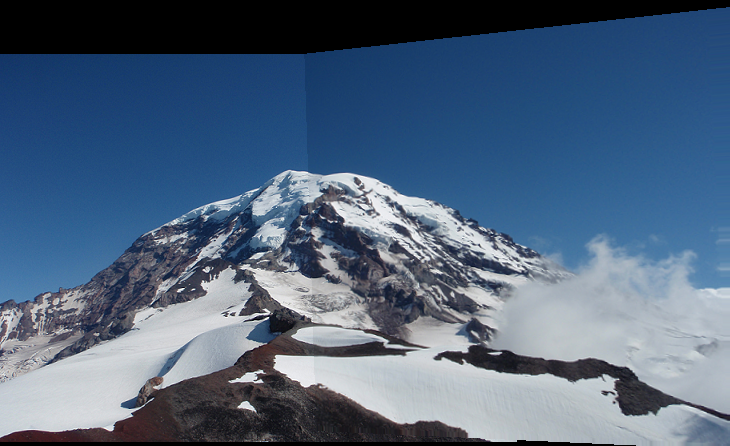
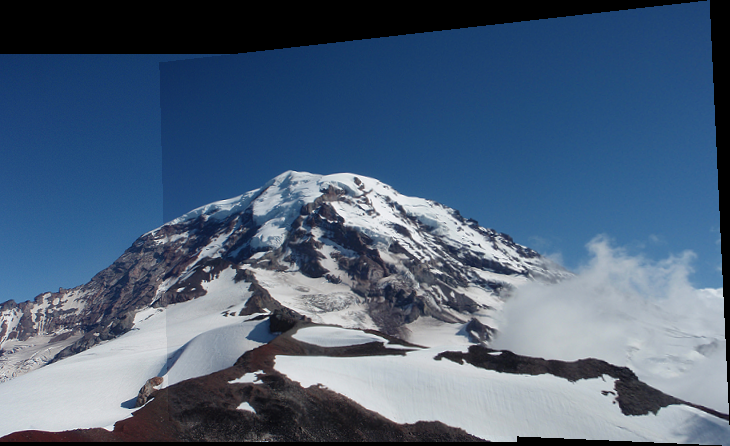
Stitching corrections completed.

diff --git a/rainier_stitch.py b/rainier_stitch.py
@@ -1,0 +1,48 @@
+import cv2
+import numpy as np
+import utility as utl
+import ransac
+from image import Image
+from stitch import stitch
+
+if __name__ == '__main__':
+    ransac_match_images = ['project_images/Rainier1.png', 'project_images/Rainier2.png', 'project_images/Rainier3.png',
+                           'project_images/Rainier4.png', 'project_images/Rainier5.png', 'project_images/Rainier6.png']
+    images = []
+    print("Detecting SIFT keypoints and corresponding descriptors in the images.")
+    for argumentImage in ransac_match_images:
+        image = Image(argumentImage)
+        image.detect_sift_corners()
+        # image.detect_harris_corners()
+        images.append(image)
+
+    final_image = images[0]
+    images = images[1:]
+    index = 1
+    while True:
+        print("Adding image ", index)
+        index += 1
+        max_inliers = 0
+        max_inliers_index = 0
+        max_inliers_homography = None
+        max_inliers_inverse_homography = None
+        for i in range(len(images)):
+            matches, matching_image = utl.get_matches(final_image, images[i])
+            homography, inverse_homography, match_image, number_of_inliers = ransac.RANSAC(matches=matches, numMatches=4, numIterations=150, inlierThreshold=50, hom=None, homInv=None, image1Display=final_image, image2Display=images[i])
+            if number_of_inliers > max_inliers:
+                max_inliers = number_of_inliers
+                max_inliers_index = i
+                max_inliers_homography = homography
+                max_inliers_inverse_homography = inverse_homography
+        print("Best current match: ", images[max_inliers_index].image_name)
+        print("Stitching")
+        final_image = stitch(final_image, images[max_inliers_index], max_inliers_homography, max_inliers_inverse_homography)
+        images = images[:max_inliers_index] + images[max_inliers_index + 1:]
+        if len(images) == 0:
+            break
+        print("Finding keypoints in the stitched image")
+        cv2.imwrite("image_sets/misc/mid.png", final_image)
+        final_image = Image("misc/mid.png")
+        final_image.detect_sift_corners()
+
+    cv2.imwrite('Results/project_images/All_Rainier_stitched.png', final_image)

diff --git a/utility.py b/utility.py
@@ -1,6 +1,8 @@
 import cv2
 import math
 import numpy as np
+from shapely.geometry import Point, Polygon
+
 
 
 # show/save image helper functions
@@ -69,7 +71,7 @@ def result_image_name(image_name):
     return "Results/" + image_name
 
 
-# helper functions to get matches between images based on detected keypoints
+# helper functions to get matches between images based on detected key points
 def get_matches(image_1, image_2):
     image_1_keypoints = [corner.keypoint for corner in image_1.corners]
     image_1_descriptors = [corner.descriptor for corner in image_1.corners]
@@ -138,18 +140,10 @@ def get_empty_stitched_image(image_1, image_2_tl, image_2_tr, image_2_bl, image_
         stitched_image_width = max_y
     # stitched_image = np.zeros((math.ceil(stitched_image_height), math.ceil(stitched_image_width), 3))
     stitched_image = np.zeros((math.ceil(stitched_image_height), math.ceil(stitched_image_width), 3))
-    # print("Shape of stitched image should look something like: ",
-    #       stitched_image.shape)
     return stitched_image
 
-
-def within_boundary_check(projected_point, image_2_tl, image_2_tr, image_2_bl, image_2_br):
-    if (projected_point[0] < image_2_tl[0] or projected_point[1] < image_2_tl[1]) and image_2_tl < image_2_bl:
-        return False
-    elif (projected_point[0] < image_2_bl[0] or projected_point[1] < image_2_bl[1]) and image_2_bl <= image_2_tl:
-        return False
-    elif (projected_point[0] > image_2_tr[0] or projected_point[1] > image_2_tr[1]) and image_2_tr > image_2_br:
-        return False
-    elif (projected_point[0] > image_2_br[0] or projected_point[1] > image_2_br[1]) and image_2_br >= image_2_tr:
-        return False
-    return True
+def within_boundary_check(projected_point, image_2):
+    image_2_boundary = np.array([[0, 0], [len(image_2.image[0]), 0], [len(image_2.image[0]), len(image_2.image)], [0, len(image_2.image)]])
+    if cv2.pointPolygonTest(image_2_boundary, projected_point, False) == 1.0:
+        return True
+    return False

diff --git a/ransac.py b/ransac.py
@@ -7,6 +7,9 @@ def project(x1,y1,H):
     x2 = H[0][0]*x1 + H[0][1]*y1 + H[0][2]
     y2 = H[1][0]*x1 + H[1][1]*y1 + H[1][2]
     w = H[2][0]*x1 + H[2][1]*y1 + H[2][2]
+
+    if w == 0:
+        return None, None
     x2 /= w
     y2 /= w
 
@@ -26,6 +29,8 @@ def computeInlierCount(H, matches, inlierThreshold, image_1_keypoints, image_2_k
     inlier_matches = []
     for point_index in range(len(source_points)):
         x, y = project(source_points[point_index][0], source_points[point_index][1], H)
+        if x == None:
+            continue
         distance = utl.get_distance(destination_points[point_index][0], destination_points[point_index][1], x, y)
         if distance <= inlierThreshold:
             number_of_inliers += 1
@@ -34,6 +39,9 @@ def computeInlierCount(H, matches, inlierThreshold, image_1_keypoints, image_2_k
     return number_of_inliers, inlier_matches
 
 def RANSAC (matches , numMatches, numIterations, inlierThreshold, hom, homInv, image1Display, image2Display):
+    if len(matches) < 4:
+        return None, None, None, 0
+
     # get image keypoints
     image_1_keypoints = [corner.keypoint for corner in image1Display.corners]
     image_2_keypoints = [corner.keypoint for corner in image2Display.corners]
@@ -69,4 +77,4 @@ def RANSAC (matches , numMatches, numIterations, inlierThreshold, hom, homInv, i
                                   matches1to2=best_homography_inliers[:10], outImg=np.array([]),
                                   flags=cv2.DrawMatchesFlags_NOT_DRAW_SINGLE_POINTS)
 
-    return homography, inverse_homography, match_image
+    return homography, inverse_homography, match_image, maximum_inliers

diff --git a/stitch.py b/stitch.py
@@ -27,7 +27,13 @@ def stitch(image_1, image_2, homography, inverse_homography):
     for row in range(leave_top, leave_top + len(image_1.image)):
         img1_col = 0
         for column in range(leave_left, leave_left + len(image_1.image[0])):
-            stitched_image[row][column] = image_1.image[img1_row][img1_col]
+            projected_point = project(img1_col, img1_row, homography)
+            # if utl.within_boundary_check(projected_point, image_2_tl, image_2_tr, image_2_bl, image_2_br):
+            if utl.within_boundary_check(projected_point, image_2):
+                dst = cv2.getRectSubPix(image=image_2.image, patchSize=(1,1), center=projected_point)
+                stitched_image[row][column] = dst[0][0]
+            else:
+                stitched_image[row][column] = image_1.image[img1_row][img1_col]
             img1_col = img1_col + 1
         img1_row = img1_row + 1
 
@@ -35,8 +41,8 @@ def stitch(image_1, image_2, homography, inverse_homography):
     for row in range(len(stitched_image)):
         for column in range(len(stitched_image[0])):
             projected_point = project(column - leave_left, row - leave_top, homography)
-
-            if utl.within_boundary_check(projected_point, image_2_tl, image_2_tr, image_2_bl, image_2_br):
+            # if utl.within_boundary_check(projected_point, image_2_tl, image_2_tr, image_2_bl, image_2_br):
+            if utl.within_boundary_check(projected_point, image_2):
                 dst = cv2.getRectSubPix(image=image_2.image, patchSize=(1,1), center=projected_point)
                 stitched_image[row][column] = dst[0][0]
 

diff --git a/stitch_check.py b/stitch_check.py
@@ -19,7 +19,7 @@ if __name__ == '__main__':
     matches, matching_image = utl.get_matches(images[0], images[1])
 
     print("Finding inlier matches")
-    homography, inverse_homography, match_image = ransac.RANSAC(matches=matches, numMatches=4, numIterations=150, inlierThreshold=50, hom=None, homInv=None, image1Display=images[0], image2Display=images[1])
+    homography, inverse_homography, match_image, number_of_inliers = ransac.RANSAC(matches=matches, numMatches=4, numIterations=150, inlierThreshold=50, hom=None, homInv=None, image1Display=images[0], image2Display=images[1])
 
     print("Stitching the image")
     stitched_image = stitch(images[0], images[1], homography, inverse_homography)

diff --git a/ransac_check.py b/ransac_check.py
@@ -18,6 +18,6 @@ if __name__ == '__main__':
     cv2.imwrite("Results/project_images/2.png", matching_image)
 
     print("Finding inlier matches")
-    homography, inverse_homography, match_image = ransac.RANSAC(matches=matches, numMatches=4, numIterations=150, inlierThreshold=50, hom=None, homInv=None, image1Display=images[0], image2Display=images[1])
+    homography, inverse_homography, match_image, number_of_inliers = ransac.RANSAC(matches=matches, numMatches=4, numIterations=150, inlierThreshold=50, hom=None, homInv=None, image1Display=images[0], image2Display=images[1])
     # utl.show_image('Match image', match_image)
     cv2.imwrite("Results/project_images/3.png", match_image)

diff --git a/image.py b/image.py
@@ -112,8 +112,10 @@ class Image:
 
         # save images with the detected keypoints
         # img = cv2.drawKeypoints(gray_img, keypoints, self.image, flags=cv2.DRAW_MATCHES_FLAGS_DRAW_RICH_KEYPOINTS)
-        image = cv2.drawKeypoints(self.image, keypoints, self.image)
+        # image = cv2.drawKeypoints(self.image, keypoints, self.image)
+        output = cv2.drawKeypoints(self.image, keypoints, np.array([]))
         result_image_path = utl.result_image_name(self.image_name)
+        # cv2.imwrite(result_image_path, img=output)
         # utl.show_image(result_image_path, image)
 
         # register the detected keypoints and corners in the list self.corners
